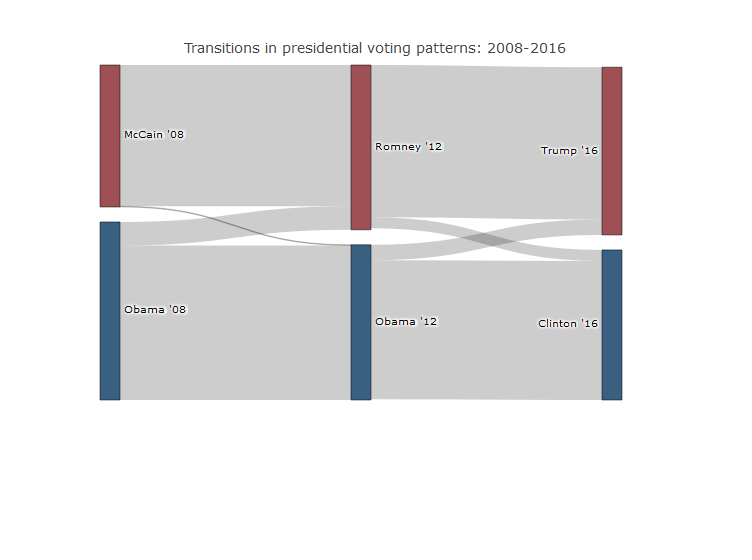
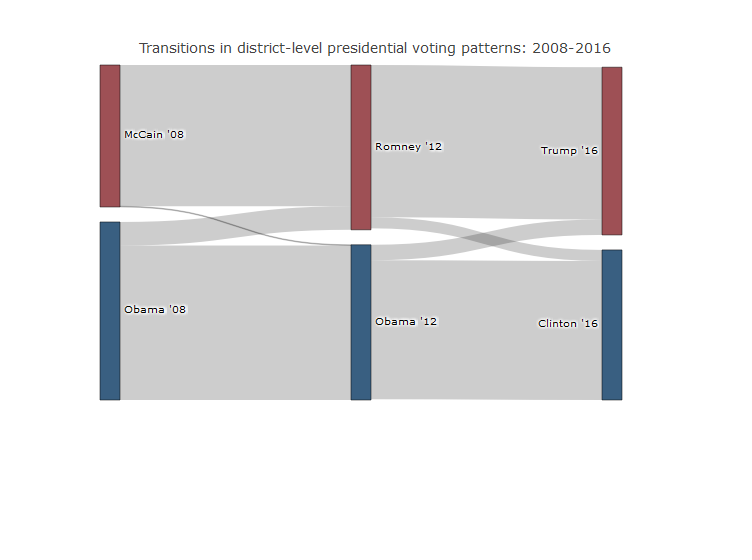
re

Changed region(s): [[0.1835, 0.0607, 0.8258, 0.1214]]

diff --git a/README.md b/README.md
@@ -51,6 +51,8 @@ csusa_house_dets %>%
 
 #### 1.1 Age & generational demographics of the 115th House
 
+> An overview of the new 116th House in terms of age distributions and generational distributions.
+
 ``` r
 csusa_house_dets %>%
   mutate (years = 
@@ -572,7 +574,7 @@ dailyvos_tile_outer <- paste0(base, '0B2X3Bx1aCHsJdGF4ZWRTQmVyV2s&export=downloa
 dailyvos_tile_inner <- paste0(base, '0B2X3Bx1aCHsJR1c0SzNyWlAtZjA&export=download/TileInv10.zip')
 ```
 
-#### 6.1 A simple function for shapefile extraction
+> A simple function for shapefile extraction:
 
 ``` r
 get_url_shape <- function (url) {
@@ -588,7 +590,7 @@ get_url_shape <- function (url) {
   x}
 ```
 
-#### 6.2 Tile map of US states: Senate composition historically
+#### 6.1 Tile map of US states: Senate composition historically
 
 ``` r
 dailykos_tile <- lapply (c(dailyvos_tile_inner,
@@ -662,7 +664,7 @@ rvoteview_senate_50 %>%
 
 ![](README_files/figure-markdown_github/unnamed-chunk-35-1.png)
 
-#### 6.3 Hexmap of Congressional districs: Presidential voting groups
+#### 6.2 Hexmap of Congressional districs: Presidential voting groups
 
 > A equal-area/hexmap perspective on the voting patterns of congressional districts for the last three presidential elections.
 
@@ -753,7 +755,7 @@ dailykos_shapes$cds %>%
 
 ![](README_files/figure-markdown_github/unnamed-chunk-39-1.png)
 
-#### 6.4 Presidential voting groups in 2-steps: A Sankey perspective
+#### 6.3 Presidential voting groups in 2-steps: A Sankey perspective
 
 > Presidential voting groups as a two-step series. A more detailed perspective.
 
@@ -808,7 +810,7 @@ plot_ly(
       value =  c(1,192,210,32,189,21,15,207))) %>% 
   
     layout(
-      title = "Transitions in presidential voting patterns: 2008-2016",
+      title = "Transitions in district-level presidential voting patterns: 2008-2016",
       font = list(size = 10))
 ```
 
@@ -818,4 +820,4 @@ plot_ly(
 
 ### 7 Summary
 
-**Hopefully a nice round-up** of useful open source resources for investigating & visualizing federal election results. I will update & develop as things get updated & develop. Ley us know!
+**Hopefully a nice round-up** of useful open source resources for investigating & visualizing federal election results. I will update & develop as things get updated & develop. Let us know!
